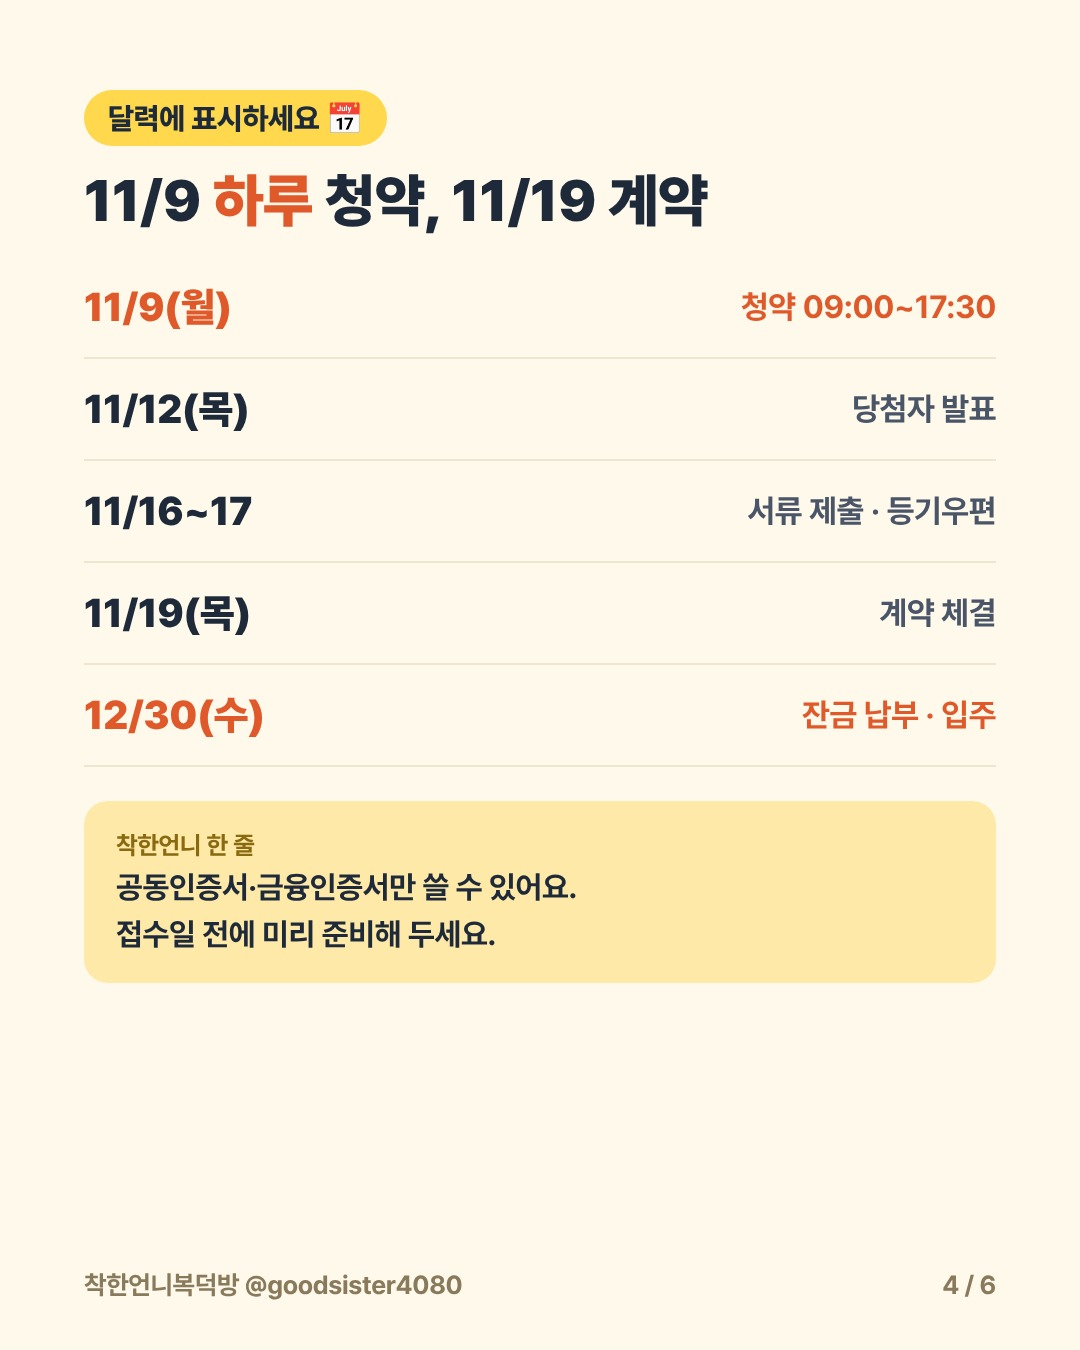
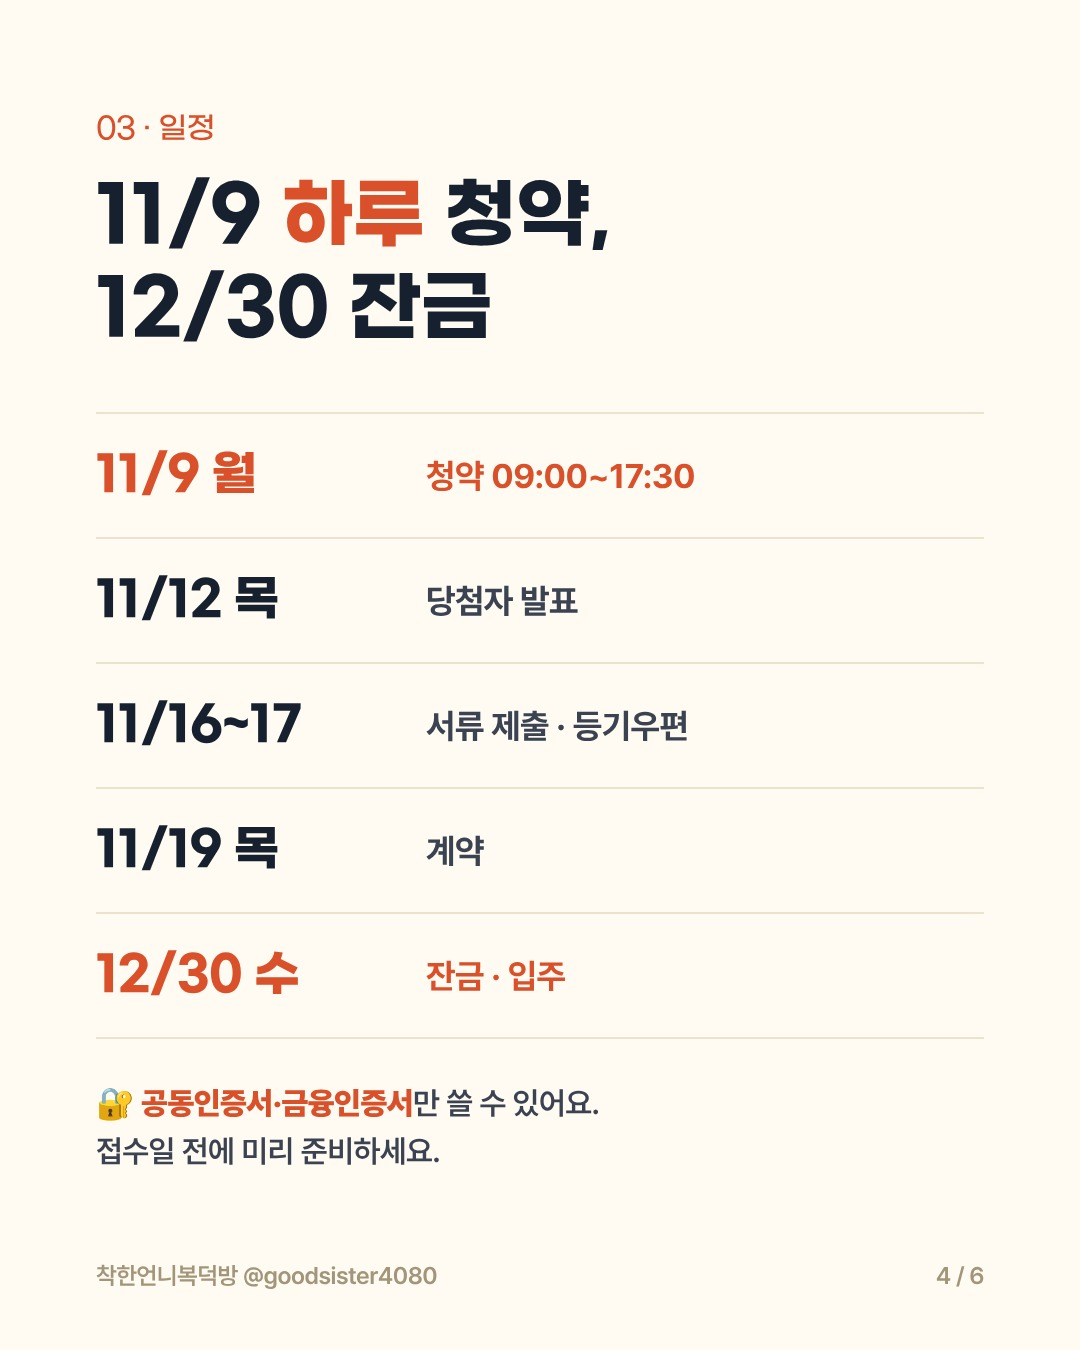
Redesign Sejong card: Gmarket Sans headlines, airier layout, save CTA moved up
Claude-Session: https://claude.ai/code/session_01TVq9M4GpnT2XRseWGn9WC1

diff --git a/instagram/cards/kit.html b/instagram/cards/kit.html
@@ -10,7 +10,7 @@ pre{white-space:pre-wrap;word-break:keep-all;margin:0;padding:14px;font-family:i
 code{background:#FFD84D;padding:2px 8px;border-radius:6px}a.back{font-size:14px}
 </style></head><body><div class="w"><a class="back" href="../../">← 대시보드</a><h1>📤 카드뉴스 업로드 키트</h1>
 <p class="note">캡션·고정 댓글·DM 문구를 버튼 한 번으로 복사하세요.</p>
-<section><h2>🚨 11/3(화) · 세종 수루배마을 무순위 (DM 없음)</h2><div class="th"><a href="2026-11-03-sejong/card-1103-1.png" download><img src="2026-11-03-sejong/card-1103-1.png"></a><a href="2026-11-03-sejong/card-1103-2.png" download><img src="2026-11-03-sejong/card-1103-2.png"></a><a href="2026-11-03-sejong/card-1103-3.png" download><img src="2026-11-03-sejong/card-1103-3.png"></a><a href="2026-11-03-sejong/card-1103-4.png" download><img src="2026-11-03-sejong/card-1103-4.png"></a><a href="2026-11-03-sejong/card-1103-5.png" download><img src="2026-11-03-sejong/card-1103-5.png"></a><a href="2026-11-03-sejong/card-1103-6.png" download><img src="2026-11-03-sejong/card-1103-6.png"></a></div><p class="note">저장·공유형이라 소셜비즈 설정이 없어요.</p><div class="box"><div class="hd"><b>① 캡션</b><button onclick="cp(this)">복사</button></div><pre>세종 수루배마을,
+<section><h2>🚨 11/3(화) · 세종 수루배마을 무순위 (DM 없음)</h2><div class="th"><a href="2026-11-03-sejong/card-1103-1.png?v=2" download><img src="2026-11-03-sejong/card-1103-1.png?v=2"></a><a href="2026-11-03-sejong/card-1103-2.png?v=2" download><img src="2026-11-03-sejong/card-1103-2.png?v=2"></a><a href="2026-11-03-sejong/card-1103-3.png?v=2" download><img src="2026-11-03-sejong/card-1103-3.png?v=2"></a><a href="2026-11-03-sejong/card-1103-4.png?v=2" download><img src="2026-11-03-sejong/card-1103-4.png?v=2"></a><a href="2026-11-03-sejong/card-1103-5.png?v=2" download><img src="2026-11-03-sejong/card-1103-5.png?v=2"></a><a href="2026-11-03-sejong/card-1103-6.png?v=2" download><img src="2026-11-03-sejong/card-1103-6.png?v=2"></a></div><p class="note">저장·공유형이라 소셜비즈 설정이 없어요.</p><div class="box"><div class="hd"><b>① 캡션</b><button onclick="cp(this)">복사</button></div><pre>세종 수루배마을,
 10년 전 분양가로 무순위 2세대 🚨
 
 ✔ 1단지 96㎡ · 미확장
@@ -46,7 +46,7 @@ code{background:#FFD84D;padding:2px 8px;border-radius:6px}a.back{font-size:14px}
 접수 전 원문 공고를 꼭 확인하세요.
 
 #세종청약 #무순위청약 #수루배마을 #세종아파트 #줍줍 #반곡동 #10년전분양가 #내집마련 #착한언니복덕방</pre></div><div class="box"><div class="hd"><b>② 고정 댓글</b><button onclick="cp(this)">복사</button></div><pre>📌 11/9(월) 하루만 접수해요! 저장해 두고, 세종 사는 지인에게 공유해 주세요 🙏</pre></div></section><section><h2>11/4(수) · 잔금 30일 캘린더</h2>
-<div class="th"><a href="2026-11-04/card-1104-1.png" download><img src="2026-11-04/card-1104-1.png"></a><a href="2026-11-04/card-1104-2.png" download><img src="2026-11-04/card-1104-2.png"></a><a href="2026-11-04/card-1104-3.png" download><img src="2026-11-04/card-1104-3.png"></a><a href="2026-11-04/card-1104-4.png" download><img src="2026-11-04/card-1104-4.png"></a></div><p class="note">이미지를 길게 누르거나(휴대폰) 클릭하면 저장돼요.</p>
+<div class="th"><a href="2026-11-04/card-1104-1.png?v=2" download><img src="2026-11-04/card-1104-1.png?v=2"></a><a href="2026-11-04/card-1104-2.png?v=2" download><img src="2026-11-04/card-1104-2.png?v=2"></a><a href="2026-11-04/card-1104-3.png?v=2" download><img src="2026-11-04/card-1104-3.png?v=2"></a><a href="2026-11-04/card-1104-4.png?v=2" download><img src="2026-11-04/card-1104-4.png?v=2"></a></div><p class="note">이미지를 길게 누르거나(휴대폰) 클릭하면 저장돼요.</p>
 <div class="box"><div class="hd"><b>① 캡션</b><button onclick="cp(this)">복사</button></div><pre>잔금 30일 전부터, 이 순서 틀리면 돈이 새요 💸
 
 지난번 「잔금일 체크리스트 20가지」
@@ -76,7 +76,7 @@ D-30부터 D-day까지
 맨 위 계산기에 내 잔금일만 넣으면
 해야 할 날짜가 자동으로 나와요.</pre></div>
 </section><section><h2>11/2(월) · 청약 3곳</h2>
-<div class="th"><a href="2026-11-02/card-1102-1-v2.png" download><img src="2026-11-02/card-1102-1-v2.png"></a><a href="2026-11-02/card-1102-2.png" download><img src="2026-11-02/card-1102-2.png"></a><a href="2026-11-02/card-1102-3.png" download><img src="2026-11-02/card-1102-3.png"></a><a href="2026-11-02/card-1102-4.png" download><img src="2026-11-02/card-1102-4.png"></a><a href="2026-11-02/card-1102-5.png" download><img src="2026-11-02/card-1102-5.png"></a></div><p class="note">이미지를 길게 누르거나(휴대폰) 클릭하면 저장돼요.</p>
+<div class="th"><a href="2026-11-02/card-1102-1-v2.png?v=2" download><img src="2026-11-02/card-1102-1-v2.png?v=2"></a><a href="2026-11-02/card-1102-2.png?v=2" download><img src="2026-11-02/card-1102-2.png?v=2"></a><a href="2026-11-02/card-1102-3.png?v=2" download><img src="2026-11-02/card-1102-3.png?v=2"></a><a href="2026-11-02/card-1102-4.png?v=2" download><img src="2026-11-02/card-1102-4.png?v=2"></a><a href="2026-11-02/card-1102-5.png?v=2" download><img src="2026-11-02/card-1102-5.png?v=2"></a></div><p class="note">이미지를 길게 누르거나(휴대폰) 클릭하면 저장돼요.</p>
 <div class="box"><div class="hd"><b>① 캡션</b><button onclick="cp(this)">복사</button></div><pre>11월 청약, 실수요자라면 이 3곳만 🏠
 
 수도권 청약 17곳을
@@ -119,7 +119,7 @@ D-30부터 D-day까지
 팔로우하셨다면 아래 [팔로우했어요] 버튼을 눌러주세요!</pre></div><div class="box"><div class="hd"><b>2차 DM (+ [자료 받기] 버튼 → 노션 「11월 수도권 청약 17곳 일정표 + 단지별 판단」)</b><button onclick="cp(this)">복사</button></div><pre>11월 수도권 청약 17곳 일정표 + 단지별 판단이에요 📅
 접수 전 청약홈 원문 공고도 꼭 확인하세요!</pre></div>
 </section><section><h2>11/9(월) · 위례선 트램</h2>
-<div class="th"><a href="2026-11-09-wirye/rail-wirye-1.png" download><img src="2026-11-09-wirye/rail-wirye-1.png"></a><a href="2026-11-09-wirye/rail-wirye-2.png" download><img src="2026-11-09-wirye/rail-wirye-2.png"></a><a href="2026-11-09-wirye/rail-wirye-3.png" download><img src="2026-11-09-wirye/rail-wirye-3.png"></a><a href="2026-11-09-wirye/rail-wirye-4.png" download><img src="2026-11-09-wirye/rail-wirye-4.png"></a><a href="2026-11-09-wirye/rail-wirye-5.png" download><img src="2026-11-09-wirye/rail-wirye-5.png"></a></div><p class="note">이미지를 길게 누르거나(휴대폰) 클릭하면 저장돼요.</p>
+<div class="th"><a href="2026-11-09-wirye/rail-wirye-1.png?v=2" download><img src="2026-11-09-wirye/rail-wirye-1.png?v=2"></a><a href="2026-11-09-wirye/rail-wirye-2.png?v=2" download><img src="2026-11-09-wirye/rail-wirye-2.png?v=2"></a><a href="2026-11-09-wirye/rail-wirye-3.png?v=2" download><img src="2026-11-09-wirye/rail-wirye-3.png?v=2"></a><a href="2026-11-09-wirye/rail-wirye-4.png?v=2" download><img src="2026-11-09-wirye/rail-wirye-4.png?v=2"></a><a href="2026-11-09-wirye/rail-wirye-5.png?v=2" download><img src="2026-11-09-wirye/rail-wirye-5.png?v=2"></a></div><p class="note">이미지를 길게 누르거나(휴대폰) 클릭하면 저장돼요.</p>
 <div class="box"><div class="hd"><b>① 캡션</b><button onclick="cp(this)">복사</button></div><pre>위례선 트램, 12월 개통 또 연기됐어요 🚋
 
 공정률 97%인데 왜 못 열까요?

diff --git a/index.html b/index.html
@@ -105,7 +105,7 @@ footer{margin-top:48px;color:var(--tx3);font-size:12px}
   <div class="cards">
     <div class="card"><h3>🚨 11/3(화) 긴급 · 저장·공유형 · 오늘 밤 9시</h3>
       <p><b>세종 수루배마을 10년 전 분양가 무순위 2세대</b> (6장 · DM 없음)</p>
-      <div class="thumbs"><a href="instagram/cards/2026-11-03-sejong/card-1103-1.png"><img src="instagram/cards/2026-11-03-sejong/card-1103-1.png" alt="1"></a><a href="instagram/cards/2026-11-03-sejong/card-1103-2.png"><img src="instagram/cards/2026-11-03-sejong/card-1103-2.png" alt="2"></a><a href="instagram/cards/2026-11-03-sejong/card-1103-3.png"><img src="instagram/cards/2026-11-03-sejong/card-1103-3.png" alt="3"></a><a href="instagram/cards/2026-11-03-sejong/card-1103-4.png"><img src="instagram/cards/2026-11-03-sejong/card-1103-4.png" alt="4"></a><a href="instagram/cards/2026-11-03-sejong/card-1103-5.png"><img src="instagram/cards/2026-11-03-sejong/card-1103-5.png" alt="5"></a><a href="instagram/cards/2026-11-03-sejong/card-1103-6.png"><img src="instagram/cards/2026-11-03-sejong/card-1103-6.png" alt="6"></a></div>
+      <div class="thumbs"><a href="instagram/cards/2026-11-03-sejong/card-1103-1.png?v=2"><img src="instagram/cards/2026-11-03-sejong/card-1103-1.png?v=2" alt="1"></a><a href="instagram/cards/2026-11-03-sejong/card-1103-2.png?v=2"><img src="instagram/cards/2026-11-03-sejong/card-1103-2.png?v=2" alt="2"></a><a href="instagram/cards/2026-11-03-sejong/card-1103-3.png?v=2"><img src="instagram/cards/2026-11-03-sejong/card-1103-3.png?v=2" alt="3"></a><a href="instagram/cards/2026-11-03-sejong/card-1103-4.png?v=2"><img src="instagram/cards/2026-11-03-sejong/card-1103-4.png?v=2" alt="4"></a><a href="instagram/cards/2026-11-03-sejong/card-1103-5.png?v=2"><img src="instagram/cards/2026-11-03-sejong/card-1103-5.png?v=2" alt="5"></a><a href="instagram/cards/2026-11-03-sejong/card-1103-6.png?v=2"><img src="instagram/cards/2026-11-03-sejong/card-1103-6.png?v=2" alt="6"></a></div>
       <ul><li><a href="instagram/cards/kit.html"><b>업로드 키트 (캡션·고정 댓글 복사)</b></a></li></ul></div>
     <div class="card"><h3>11/4(수) 카드뉴스 · <code>잔금</code> · ⏰ 밤 9시 예약</h3>
       <p><b>잔금 30일 전부터, 이 순서 틀리면 돈이 새요</b> (4장)</p>
